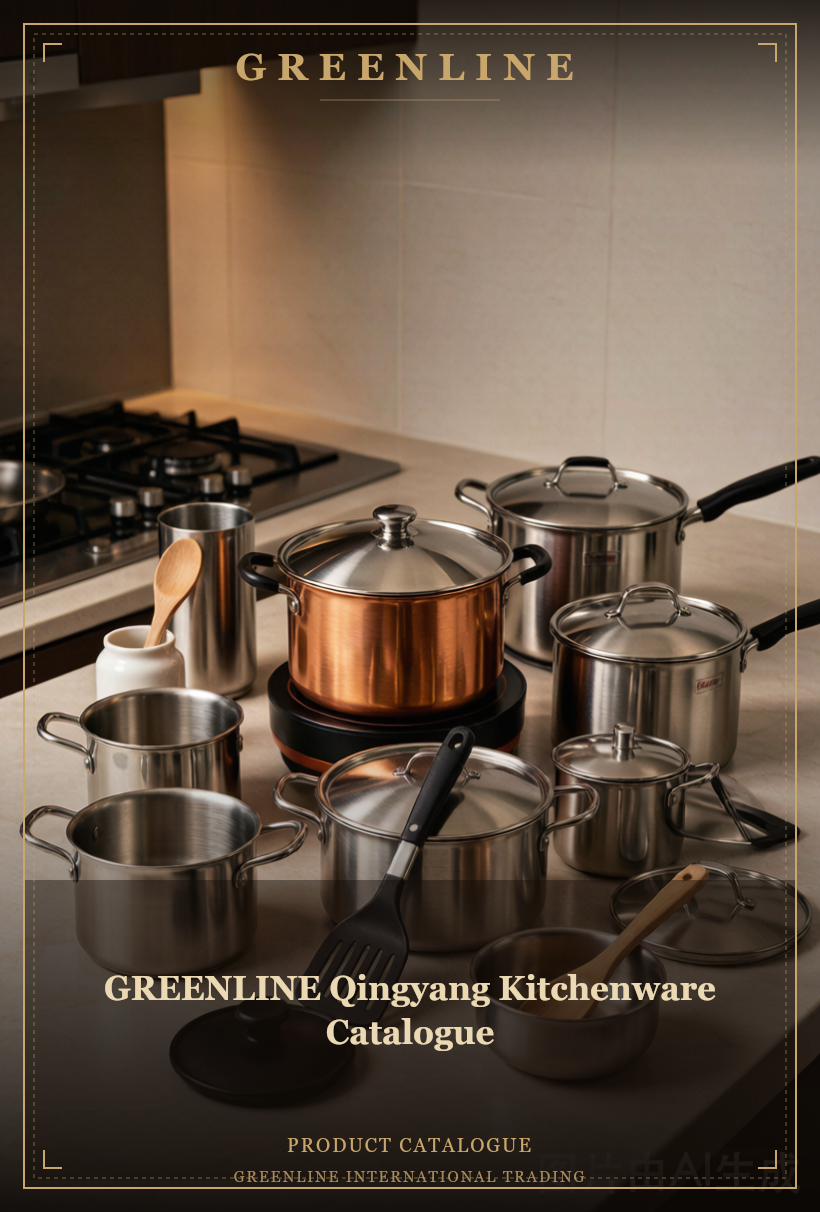
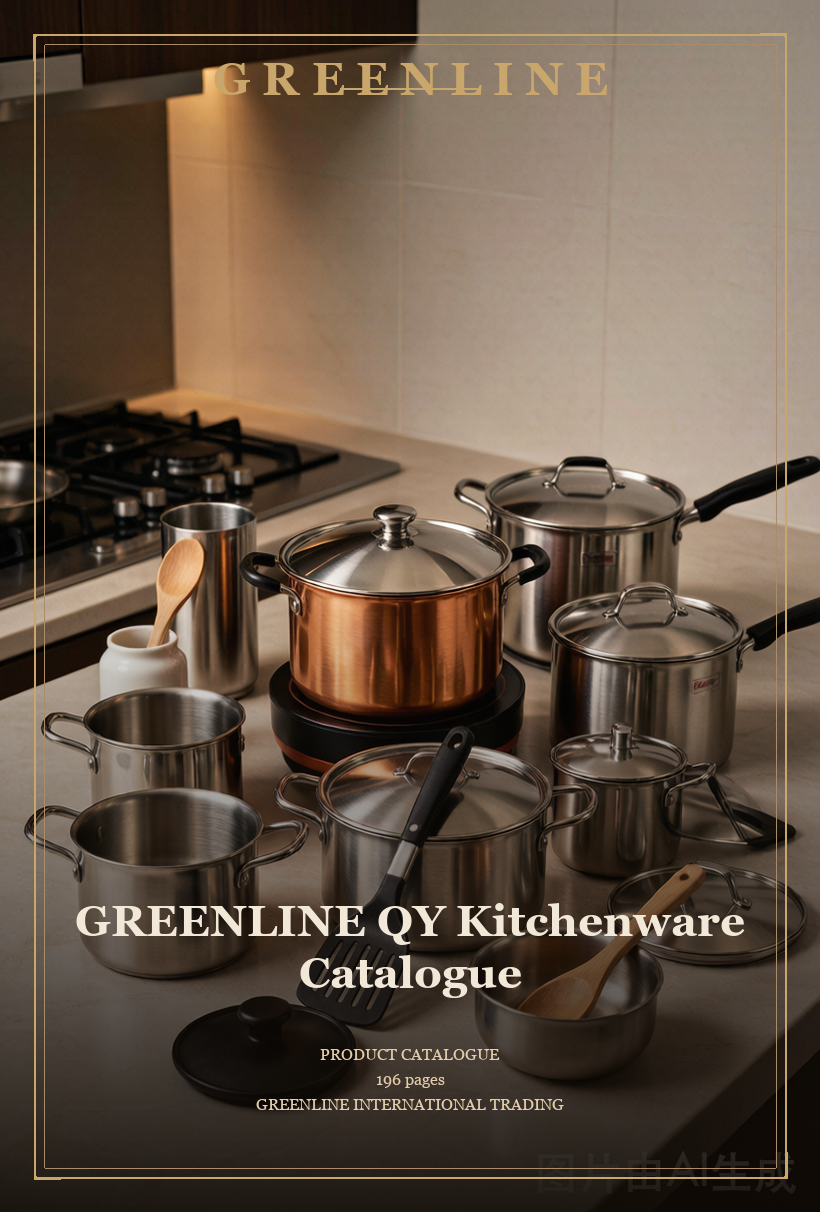
Update qingyang kitchenware catalogue: Qingyang/庆阳 -> QY

diff --git a/catalog/qingyang/data.js b/catalog/qingyang/data.js
@@ -1,6 +1,6 @@
 window.FLIP = {
-  title_cn: "GREENLINE 庆阳系列厨具目录册",
-  title_en: "GREENLINE Qingyang Kitchenware Catalogue",
+  title_cn: "GREENLINE QY系列厨具目录册",
+  title_en: "GREENLINE QY Kitchenware Catalogue",
   total: 196,
   images: ["pages/full/p001.webp","pages/full/p002.webp","pages/full/p003.webp","pages/full/p004.webp","pages/full/p005.webp","pages/full/p006.webp","pages/full/p007.webp","pages/full/p008.webp","pages/full/p009.webp","pages/full/p010.webp","pages/full/p011.webp","pages/full/p012.webp","pages/full/p013.webp","pages/full/p014.webp","pages/full/p015.webp","pages/full/p016.webp","pages/full/p017.webp","pages/full/p018.webp","pages/full/p019.webp","pages/full/p020.webp","pages/full/p021.webp","pages/full/p022.webp","pages/full/p023.webp","pages/full/p024.webp","pages/full/p025.webp","pages/full/p026.webp","pages/full/p027.webp","pages/full/p028.webp","pages/full/p029.webp","pages/full/p030.webp","pages/full/p031.webp","pages/full/p032.webp","pages/full/p033.webp","pages/full/p034.webp","pages/full/p035.webp","pages/full/p036.webp","pages/full/p037.webp","pages/full/p038.webp","pages/full/p039.webp","pages/full/p040.webp","pages/full/p041.webp","pages/full/p042.webp","pages/full/p043.webp","pages/full/p044.webp","pages/full/p045.webp","pages/full/p046.webp","pages/full/p047.webp","pages/full/p048.webp","pages/full/p049.webp","pages/full/p050.webp","pages/full/p051.webp","pages/full/p052.webp","pages/full/p053.webp","pages/full/p054.webp","pages/full/p055.webp","pages/full/p056.webp","pages/full/p057.webp","pages/full/p058.webp","pages/full/p059.webp","pages/full/p060.webp","pages/full/p061.webp","pages/full/p062.webp","pages/full/p063.webp","pages/full/p064.webp","pages/full/p065.webp","pages/full/p066.webp","pages/full/p067.webp","pages/full/p068.webp","pages/full/p069.webp","pages/full/p070.webp","pages/full/p071.webp","pages/full/p072.webp","pages/full/p073.webp","pages/full/p074.webp","pages/full/p075.webp","pages/full/p076.webp","pages/full/p077.webp","pages/full/p078.webp","pages/full/p079.webp","pages/full/p080.webp","pages/full/p081.webp","pages/full/p082.webp","pages/full/p083.webp","pages/full/p084.webp","pages/full/p085.webp","pages/full/p086.webp","pages/full/p087.webp","pages/full/p088.webp","pages/full/p089.webp","pages/full/p090.webp","pages/full/p091.webp","pages/full/p092.webp","pages/full/p093.webp","pages/full/p094.webp","pages/full/p095.webp","pages/full/p096.webp","pages/full/p097.webp","pages/full/p098.webp","pages/full/p099.webp","pages/full/p100.webp","pages/full/p101.webp","pages/full/p102.webp","pages/full/p103.webp","pages/full/p104.webp","pages/full/p105.webp","pages/full/p106.webp","pages/full/p107.webp","pages/full/p108.webp","pages/full/p109.webp","pages/full/p110.webp","pages/full/p111.webp","pages/full/p112.webp","pages/full/p113.webp","pages/full/p114.webp","pages/full/p115.webp","pages/full/p116.webp","pages/full/p117.webp","pages/full/p118.webp","pages/full/p119.webp","pages/full/p120.webp","pages/full/p121.webp","pages/full/p122.webp","pages/full/p123.webp","pages/full/p124.webp","pages/full/p125.webp","pages/full/p126.webp","pages/full/p127.webp","pages/full/p128.webp","pages/full/p129.webp","pages/full/p130.webp","pages/full/p131.webp","pages/full/p132.webp","pages/full/p133.webp","pages/full/p134.webp","pages/full/p135.webp","pages/full/p136.webp","pages/full/p137.webp","pages/full/p138.webp","pages/full/p139.webp","pages/full/p140.webp","pages/full/p141.webp","pages/full/p142.webp","pages/full/p143.webp","pages/full/p144.webp","pages/full/p145.webp","pages/full/p146.webp","pages/full/p147.webp","pages/full/p148.webp","pages/full/p149.webp","pages/full/p150.webp","pages/full/p151.webp","pages/full/p152.webp","pages/full/p153.webp","pages/full/p154.webp","pages/full/p155.webp","pages/full/p156.webp","pages/full/p157.webp","pages/full/p158.webp","pages/full/p159.webp","pages/full/p160.webp","pages/full/p161.webp","pages/full/p162.webp","pages/full/p163.webp","pages/full/p164.webp","pages/full/p165.webp","pages/full/p166.webp","pages/full/p167.webp","pages/full/p168.webp","pages/full/p169.webp","pages/full/p170.webp","pages/full/p171.webp","pages/full/p172.webp","pages/full/p173.webp","pages/full/p174.webp","pages/full/p175.webp","pages/full/p176.webp","pages/full/p177.webp","pages/full/p178.webp","pages/full/p179.webp","pages/full/p180.webp","pages/full/p181.webp","pages/full/p182.webp","pages/full/p183.webp","pages/full/p184.webp","pages/full/p185.webp","pages/full/p186.webp","pages/full/p187.webp","pages/full/p188.webp","pages/full/p189.webp","pages/full/p190.webp","pages/full/p191.webp","pages/full/p192.webp","pages/full/p193.webp","pages/full/p194.webp","pages/full/p195.webp","pages/full/p196.webp"],
   thumbs: ["pages/thumbs/p001.webp","pages/thumbs/p002.webp","pages/thumbs/p003.webp","pages/thumbs/p004.webp","pages/thumbs/p005.webp","pages/thumbs/p006.webp","pages/thumbs/p007.webp","pages/thumbs/p008.webp","pages/thumbs/p009.webp","pages/thumbs/p010.webp","pages/thumbs/p011.webp","pages/thumbs/p012.webp","pages/thumbs/p013.webp","pages/thumbs/p014.webp","pages/thumbs/p015.webp","pages/thumbs/p016.webp","pages/thumbs/p017.webp","pages/thumbs/p018.webp","pages/thumbs/p019.webp","pages/thumbs/p020.webp","pages/thumbs/p021.webp","pages/thumbs/p022.webp","pages/thumbs/p023.webp","pages/thumbs/p024.webp","pages/thumbs/p025.webp","pages/thumbs/p026.webp","pages/thumbs/p027.webp","pages/thumbs/p028.webp","pages/thumbs/p029.webp","pages/thumbs/p030.webp","pages/thumbs/p031.webp","pages/thumbs/p032.webp","pages/thumbs/p033.webp","pages/thumbs/p034.webp","pages/thumbs/p035.webp","pages/thumbs/p036.webp","pages/thumbs/p037.webp","pages/thumbs/p038.webp","pages/thumbs/p039.webp","pages/thumbs/p040.webp","pages/thumbs/p041.webp","pages/thumbs/p042.webp","pages/thumbs/p043.webp","pages/thumbs/p044.webp","pages/thumbs/p045.webp","pages/thumbs/p046.webp","pages/thumbs/p047.webp","pages/thumbs/p048.webp","pages/thumbs/p049.webp","pages/thumbs/p050.webp","pages/thumbs/p051.webp","pages/thumbs/p052.webp","pages/thumbs/p053.webp","pages/thumbs/p054.webp","pages/thumbs/p055.webp","pages/thumbs/p056.webp","pages/thumbs/p057.webp","pages/thumbs/p058.webp","pages/thumbs/p059.webp","pages/thumbs/p060.webp","pages/thumbs/p061.webp","pages/thumbs/p062.webp","pages/thumbs/p063.webp","pages/thumbs/p064.webp","pages/thumbs/p065.webp","pages/thumbs/p066.webp","pages/thumbs/p067.webp","pages/thumbs/p068.webp","pages/thumbs/p069.webp","pages/thumbs/p070.webp","pages/thumbs/p071.webp","pages/thumbs/p072.webp","pages/thumbs/p073.webp","pages/thumbs/p074.webp","pages/thumbs/p075.webp","pages/thumbs/p076.webp","pages/thumbs/p077.webp","pages/thumbs/p078.webp","pages/thumbs/p079.webp","pages/thumbs/p080.webp","pages/thumbs/p081.webp","pages/thumbs/p082.webp","pages/thumbs/p083.webp","pages/thumbs/p084.webp","pages/thumbs/p085.webp","pages/thumbs/p086.webp","pages/thumbs/p087.webp","pages/thumbs/p088.webp","pages/thumbs/p089.webp","pages/thumbs/p090.webp","pages/thumbs/p091.webp","pages/thumbs/p092.webp","pages/thumbs/p093.webp","pages/thumbs/p094.webp","pages/thumbs/p095.webp","pages/thumbs/p096.webp","pages/thumbs/p097.webp","pages/thumbs/p098.webp","pages/thumbs/p099.webp","pages/thumbs/p100.webp","pages/thumbs/p101.webp","pages/thumbs/p102.webp","pages/thumbs/p103.webp","pages/thumbs/p104.webp","pages/thumbs/p105.webp","pages/thumbs/p106.webp","pages/thumbs/p107.webp","pages/thumbs/p108.webp","pages/thumbs/p109.webp","pages/thumbs/p110.webp","pages/thumbs/p111.webp","pages/thumbs/p112.webp","pages/thumbs/p113.webp","pages/thumbs/p114.webp","pages/thumbs/p115.webp","pages/thumbs/p116.webp","pages/thumbs/p117.webp","pages/thumbs/p118.webp","pages/thumbs/p119.webp","pages/thumbs/p120.webp","pages/thumbs/p121.webp","pages/thumbs/p122.webp","pages/thumbs/p123.webp","pages/thumbs/p124.webp","pages/thumbs/p125.webp","pages/thumbs/p126.webp","pages/thumbs/p127.webp","pages/thumbs/p128.webp","pages/thumbs/p129.webp","pages/thumbs/p130.webp","pages/thumbs/p131.webp","pages/thumbs/p132.webp","pages/thumbs/p133.webp","pages/thumbs/p134.webp","pages/thumbs/p135.webp","pages/thumbs/p136.webp","pages/thumbs/p137.webp","pages/thumbs/p138.webp","pages/thumbs/p139.webp","pages/thumbs/p140.webp","pages/thumbs/p141.webp","pages/thumbs/p142.webp","pages/thumbs/p143.webp","pages/thumbs/p144.webp","pages/thumbs/p145.webp","pages/thumbs/p146.webp","pages/thumbs/p147.webp","pages/thumbs/p148.webp","pages/thumbs/p149.webp","pages/thumbs/p150.webp","pages/thumbs/p151.webp","pages/thumbs/p152.webp","pages/thumbs/p153.webp","pages/thumbs/p154.webp","pages/thumbs/p155.webp","pages/thumbs/p156.webp","pages/thumbs/p157.webp","pages/thumbs/p158.webp","pages/thumbs/p159.webp","pages/thumbs/p160.webp","pages/thumbs/p161.webp","pages/thumbs/p162.webp","pages/thumbs/p163.webp","pages/thumbs/p164.webp","pages/thumbs/p165.webp","pages/thumbs/p166.webp","pages/thumbs/p167.webp","pages/thumbs/p168.webp","pages/thumbs/p169.webp","pages/thumbs/p170.webp","pages/thumbs/p171.webp","pages/thumbs/p172.webp","pages/thumbs/p173.webp","pages/thumbs/p174.webp","pages/thumbs/p175.webp","pages/thumbs/p176.webp","pages/thumbs/p177.webp","pages/thumbs/p178.webp","pages/thumbs/p179.webp","pages/thumbs/p180.webp","pages/thumbs/p181.webp","pages/thumbs/p182.webp","pages/thumbs/p183.webp","pages/thumbs/p184.webp","pages/thumbs/p185.webp","pages/thumbs/p186.webp","pages/thumbs/p187.webp","pages/thumbs/p188.webp","pages/thumbs/p189.webp","pages/thumbs/p190.webp","pages/thumbs/p191.webp","pages/thumbs/p192.webp","pages/thumbs/p193.webp","pages/thumbs/p194.webp","pages/thumbs/p195.webp","pages/thumbs/p196.webp"],

diff --git a/catalog/qingyang/index.html b/catalog/qingyang/index.html
@@ -184,8 +184,8 @@
     <div class="brand">
       <div class="logo">GREENLINE</div>
       <div class="title-group">
-        <div class="title-main">GREENLINE 庆阳系列厨具目录册</div>
-        <div class="title-sub">GREENLINE Qingyang Kitchenware Catalogue</div>
+        <div class="title-main">GREENLINE QY系列厨具目录册</div>
+        <div class="title-sub">GREENLINE QY Kitchenware Catalogue</div>
       </div>
     </div>
     <div class="controls">
